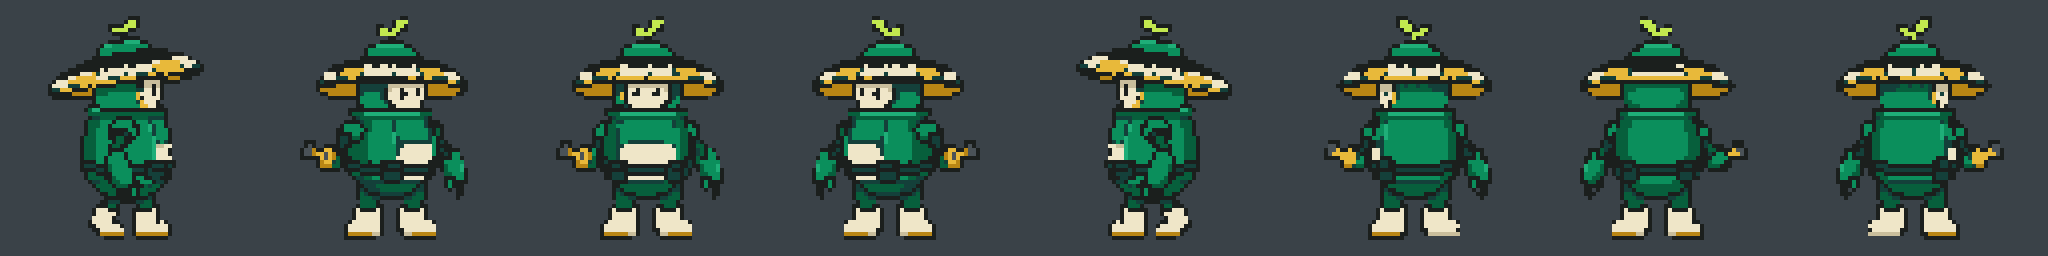
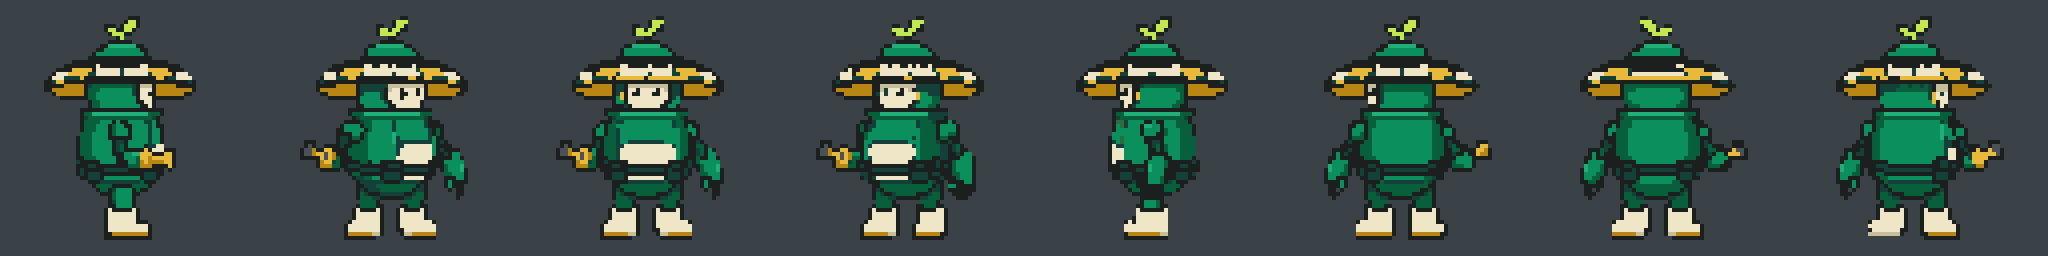
Nozzle on Seven's right arm in all facings; aim barrel is now a gold nozzle arm
East, West, SouthWest and NorthWest are drawn for themselves (mirroring swapped the arms).
While aiming, the game draws an emerald arm and gold spout, and shows a strip without the
resting nozzle so Seven never has two.

Changed region(s): [[0.375, 0.0625, 0.75, 0.9375], [0.0, 0.0938, 0.125, 0.9375]]

diff --git a/tools/gen_seven_sprites.py b/tools/gen_seven_sprites.py
@@ -35,6 +35,8 @@ OUT
     art/source/seven_pixel/<view>_<take>.png       the snapped 64 x 64 frame (and @6x preview)
     art/source/seven_pixel/sheet.png               every snapped take side by side
     art/sprites/gardener_bot_facings.png, art/sprites/gardener_bot.png       (build only)
+    art/sprites/gardener_bot_facings_aiming.png   the same strip with the resting nozzle painted out
+                                                  (the game uses it while its own gold aim arm shows)
     art/source/seven_pixel/strip@4x.png            the finished strip at 4x, for looking
 
 Needs: Pillow, numpy, scipy
@@ -104,20 +106,54 @@ VIEWS = {
         "THIS VIEW: a THREE-QUARTER FRONT view. Seven is turned 45 degrees so it faces toward the "
         "viewer AND toward the RIGHT of the picture: we see the face window turned to the right, the "
         "front of the body and the near side of the body. The nozzle arm is on the far side.",
-        [(1, False), (3, True)],
+        [(1, False)],
     ),
     "side": (
         "THIS VIEW: the SIDE view, exactly the 'SIDE' picture of the model sheet. Seven faces the RIGHT "
         "of the picture in profile, the face window at the right edge of the head, the boots pointing "
         "right.",
-        [(0, False), (4, True)],
+        [],  # no longer used for a frame: West has its own drawing, `side_far` (kept as history)
+    ),
+    "side_far": (
+        "THIS VIEW: the SIDE view facing the LEFT of the picture in profile: the face window at the LEFT "
+        "edge of the head, the boots pointing left. The NEAR arm (the one we can see, hanging at the "
+        "body's side) is the plain-hand arm with the small three-fingered hand; the gold nozzle arm is "
+        "on the far side, hidden behind the body, so NO gold nozzle shows. Keep the hat flat and wide "
+        "like the reference, and the pose and size the same as the reference.",
+        [(4, False)],
     ),
     "three_back": (
         "THIS VIEW: a THREE-QUARTER BACK view. Seven is turned so it faces away from the viewer AND "
         "toward the RIGHT of the picture: we see the back of the body and the back of the hat, and just "
         "a sliver of the face window at the right edge of the head. The gold nozzle arm is on the near "
         "side.",
-        [(7, False), (5, True)],
+        [(7, False)],
+    ),
+    # Seven's NOZZLE arm is its RIGHT arm (the picture's left in the front view). A mirrored view
+    # swaps the arms, so East, SouthWest and NorthWest are drawn for themselves, not flipped.
+    "side_near": (
+        "THIS VIEW: the SIDE view like the 'SIDE' picture of the model sheet: Seven faces the RIGHT of the "
+        "picture in profile, the face window at the right edge of the head, the boots pointing right. "
+        "BUT this time the NEAR arm (the one we can see, hanging at the body's side) is the NOZZLE arm: "
+        "the short gold watering-spout nozzle sticks out of the near hand, pointing forward (to the "
+        "right) and slightly down. The other arm is hidden behind the body.",
+        [(0, False)],
+    ),
+    "three_front_left": (
+        "THIS VIEW: a THREE-QUARTER FRONT view turned the other way. Seven is turned 45 degrees so it "
+        "faces toward the viewer AND toward the LEFT of the picture: the face window is turned to the "
+        "left. The gold nozzle arm is on the FAR side: on the left of the picture, partly hidden behind "
+        "the body, with the gold spout showing past the body's left edge. The plain-hand arm is on the "
+        "near side, on the right of the picture.",
+        [(3, False)],
+    ),
+    "three_back_left": (
+        "THIS VIEW: a THREE-QUARTER BACK view turned to the LEFT. Seven faces away from the viewer AND "
+        "toward the LEFT of the picture: we see the back of the body and the back of the hat, and just a "
+        "sliver of the face window at the LEFT edge of the head. The gold nozzle arm is on the FAR side: "
+        "on the right of the picture, partly hidden behind the body, the gold spout showing past the "
+        "body's right edge. The plain-hand arm is on the near side, on the left of the picture.",
+        [(5, False)],
     ),
     "back": (
         "THIS VIEW: the BACK, exactly the 'BACK' picture of the model sheet. Seven faces away from the "
@@ -138,6 +174,20 @@ def draw(view: str, take: int, key: str, front_raw: Path = None) -> Path:
         references.append(front_raw)
         note = (" The SECOND reference picture is the finished pixel sprite of the FRONT view: draw the "
                 "same character at the same size and in the same pixel style, just turned.")
+    if view == "side_far":
+        # West gets a third reference: the finished East view flipped to face left, so West has the
+        # same hat, size and pose. (Its near hand holds the nozzle, which is wrong for West: said below.)
+        # `OUT / "name"` joins a folder and a file name (pathlib overloads the / operator for this).
+        flipped = OUT / "ref_side_near_flipped.png"
+        # Open the East drawing, mirror it left-to-right, and save it as the extra reference file.
+        # The calls are chained: each one works on the picture the call before it returned.
+        Image.open(OUT / "side_near_raw_2.png").transpose(Image.FLIP_LEFT_RIGHT).save(flipped)
+        references.append(flipped)  # a list's .append adds one item at the end
+        # `+=` on a string glues more text onto the end of `note`; the brackets let one long
+        # string sit across several lines (neighbouring string pieces are joined automatically).
+        note += (" The LAST reference picture is the finished East view flipped to face left: copy its "
+                 "hat, size and pose exactly, but its near hand holds the gold nozzle, which is WRONG for "
+                 "this view: in YOUR drawing the near hand is the plain hand and no nozzle shows.")
     prompt = BASE + note + "\n\n" + VIEWS[view][0]
     raw_path = OUT / f"{view}_raw_{take}.png"
     raw_path.write_bytes(concepts.generate(prompt, key, references=tuple(references), aspect="1:1"))
@@ -257,10 +307,36 @@ def build_sheet() -> None:
     print("saved sheet.png")
 
 
+def without_nozzle(frame: Image.Image) -> Image.Image:
+    """Return a copy of one frame with the resting gold nozzle painted out of the right hand.
+    WHY: while Seven aims, the game draws its own gold nozzle ARM reaching along the aim
+    (scripts/player.gd `_draw_nozzle`); with the painted one still hanging at the side Seven would
+    show two nozzles. So the game swaps to a strip without it whenever the aim arm is showing.
+    HOW: the nozzle is a clump of gold pixels hanging off the body. Gold also appears in the hat
+    rim (high up), the boots' edge (low down) and small chest rivets (tiny separate dots), so we
+    only recolour a gold CLUMP of 4 or more pixels whose middle sits between the hat and the boots.
+    Gold becomes emerald and dark gold becomes dark emerald, so what is left is a plain green fist."""
+    pixels = np.array(frame.convert("RGBA"))
+    palette = {name: tuple(int(code[i:i + 2], 16) for i in (1, 3, 5)) for name, code in PALETTE}
+    gold, gold_dark = palette["gold"], palette["gold-dark"]
+    is_gold = (pixels[..., :3] == gold).all(axis=2) & (pixels[..., 3] > 0)
+    is_dark_gold = (pixels[..., :3] == gold_dark).all(axis=2) & (pixels[..., 3] > 0)
+    # `structure` of all ones makes diagonal neighbours count as touching when we group pixels.
+    clumps, count = ndimage.label(is_gold | is_dark_gold, structure=np.ones((3, 3)))
+    for number in range(1, count + 1):
+        ys, xs = np.where(clumps == number)
+        if len(ys) >= 4 and 28 <= ys.mean() <= 52:
+            for y, x in zip(ys, xs):
+                pixels[y, x, :3] = palette["emerald"] if is_gold[y, x] else palette["emerald-dark"]
+    return Image.fromarray(pixels, "RGBA")
+
+
 def build_strip(picks: dict) -> None:
     """Assemble the 8-frame strip from the chosen take of each view (mirroring where needed)."""
     frames = [None] * 8
     for view, (_, targets) in VIEWS.items():
+        if not targets:
+            continue  # a view that makes no frame (the old `side`) needs no pick
         frame = Image.open(OUT / f"{view}_{picks[view]}.png").convert("RGBA")
         for index, mirrored in targets:
             frames[index] = frame.transpose(Image.FLIP_LEFT_RIGHT) if mirrored else frame
@@ -268,6 +344,11 @@ def build_strip(picks: dict) -> None:
     for index, frame in enumerate(frames):
         strip.paste(frame, (index * SIZE, 0))
     strip.save(ROOT / "art/sprites/gardener_bot_facings.png")
+    # The same eight frames with the resting nozzle painted out: used while the aim arm is drawn.
+    aiming = Image.new("RGBA", strip.size, (0, 0, 0, 0))
+    for index, frame in enumerate(frames):
+        aiming.paste(without_nozzle(frame), (index * SIZE, 0))
+    aiming.save(ROOT / "art/sprites/gardener_bot_facings_aiming.png")
     frames[2].save(ROOT / "art/sprites/gardener_bot.png")
     big = strip.resize((SIZE * 8 * 4, SIZE * 4), Image.NEAREST)
     preview = Image.new("RGBA", big.size, (58, 66, 72, 255))

diff --git a/docs/DEVLOG.md b/docs/DEVLOG.md
@@ -384,6 +384,10 @@ From the kickoff. `config/game_config.tres` holds every speed, cooldown and size
 - The thunk and spit candidates came back very quiet (mean below -36 dB) and need a lot of gain; listen for hiss.
 - The listening page now plays every take evened out to its in-game loudness.
 
+## D-070: Seven's nozzle is on the RIGHT arm in every facing, and the aim barrel is now a gold nozzle arm (Made, 2026-11-20)
+
+Sasha's playtest of the new strip: frames 1, 4 and 6 (East, SouthWest, NorthWest) had the hands the wrong way round, and the grey gun-barrel drawn while aiming should be the gold nozzle arm. **Cause:** Seven's nozzle is its RIGHT arm (the picture's left in the front view), and a MIRRORED drawing swaps the arms; East was drawn with the plain hand near the camera, and SouthWest and NorthWest were flipped copies. **Fix:** those three facings (plus West, to keep the hat matching) are now drawn for themselves, not flipped: `side_near` (East), `side_far` (West, with the finished East flipped as a reference so hat, size and pose match), `three_front_left` (SouthWest) and `three_back_left` (NorthWest), all in `art/source/seven_pixel/`. Rule to remember: facing direction f (screen y down) puts the right arm toward (-f.y, f.x): near the camera when Seven faces East, far when it faces West. **Aim arm:** `player.gd` `_draw_nozzle` no longer draws a grey barrel; it draws an emerald arm from the right shoulder to the hand and a gold spout (a tube that flares to a bell, with a pale rim) along the aim. Tunables are in `config/game_config.gd`: `aim_arm_color`, `aim_arm_width`, `aim_spout_color`, `aim_spout_rim_color`, `aim_spout_width`, `aim_spout_bell_width`, `aim_nozzle_length`, `aim_shoulder_reach_cells`, `aim_shoulder_height_cells` (the old `aim_nozzle_color` is gone). **No double nozzle:** a second strip, `art/sprites/gardener_bot_facings_aiming.png`, is the same eight frames with the resting gold nozzle painted out (`without_nozzle` in `tools/gen_seven_sprites.py`); `Player._update_aim` shows it while the aim arm is drawn and the plain strip when Seven is down or locked on the upgrade cards (config slot `player_facings_aiming_texture`). Checked: 893 headless checks pass (two new); `tests/capture_nozzle.gd` renders Seven aiming in all eight directions (`docs/s24/nozzle_facings.png`). **Soft spot:** aiming up or away, the arm crosses the back as a thick diagonal band; it reads as an arm but is heavier than the front views.
+
 ## D-069: Seven is now the emerald Engineer, with a new 8-direction pixel strip (Made, 2026-11-20)
 
 Sasha picked **Engineer take 1** (solar-panel sun hat with the seedling on the crown, cream face window, emerald barrel body with a cream chest panel and a dark tool belt, a gold watering-spout nozzle arm, stumpy legs, cream boots). `tools/gen_seven_sprites.py` turned it into the game's eight facings. **How:** Seven only needs FIVE drawn angles (front, three-quarter front, side, three-quarter back, back) because West, SouthWest and NorthWest are mirror images of East, SouthEast and NorthEast; the image model draws each angle as chunky pixel art on magenta from the concept sheet (every angle after the front also gets the finished front drawing as a style reference, so proportions match). Then a SNAP step: key out the magenta, give every pixel its nearest colour in Seven's own 14-colour palette (emerald, shade, light emerald, cream, gold, leaf greens, a lime for the seedling, outline), and shrink to a figure 56 px tall by letting each target pixel take the commonest colour in its patch (the outline counts double, and dark specks inside the pale face window count four times so the two eyes survive). Every frame is then lined up the same way (boots on row 59, body centred) so Seven does not jump when the aim sweeps round. Picks: front 2, three-quarter front 2, side 2, three-quarter back 1, back 2 (sources and every take: `art/source/seven_pixel/`). **Changed:** `art/sprites/gardener_bot_facings.png` and `gardener_bot.png` (the title/fallback picture) are the new design; `player.gd` `FALLBACK_COLOR` is emerald; `art/source/klad/palette.ops.jsonl` gained `emerald` and `emerald-dark` (`teal` stays, the upgrade icons and props still use it); `ART_DIRECTION.md` has the new Seven row; the old `tools/seven_sprite.py` and `seven_facings.py` are marked OBSOLETE (rerunning them would bring the teal robot back). Checked: 891 headless checks pass; a real render (`docs/s24/seven_among_trees.png`) shows Seven among grown trees at mid-run night: the gold-and-cream hat and cream boots carry the silhouette and the deep emerald body stays darker than the glowing canopies, so it does not blend in. **Known soft spots:** the three-quarter views are only slightly turned, so South and SouthEast look alike; the hat's solar-panel glass reads as a dark band at 56 px; Seven is 5 px taller than before (the old figure was 51 px); at night the emerald body is dimmer than the old cream dome, so a rim light is the fix if it feels lost. **Still open from the emerald checklist:** the UI "teal" accent (decision A, leave it, unless Sasha says otherwise), the title art, the itch cover and screenshots, the intro video and the trailer all still show the old teal Seven and must be remade before the v2.0 update. No itch upload (Sasha: nothing more until v2.0).

diff --git a/AI_LOG.md b/AI_LOG.md
@@ -40,6 +40,7 @@ One line per asset or system: tool, date, what it did. This feeds the itch page'
 | 2026-11-20 | Gemini (Nano Banana 2.1) | `art/sprites/{scrapper,sawbot,spitter,linebreaker,ripsaw,arc_spitter}.png`, `art/source/robot_pixel/` | Drew top-down pixel versions of the six locked machine concepts and snapped them to 64 px with `tools/gen_sprites.py`. In the game. |
 | 2026-11-20 | Gemini (Nano Banana 2.1) | `art/concept/seven_redesign/*.png` (6 turnaround sheets) | Generated three emerald redesign directions for Seven with `tools/gen_seven.py`. Not in the game. |
 | 2026-11-20 | Gemini (Nano Banana 2.1) | `art/sprites/gardener_bot_facings.png`, `art/sprites/gardener_bot.png`, `art/source/seven_pixel/*` | Seven's emerald Engineer design as an 8-facing pixel strip: five angles drawn as pixel art by the model from the locked concept (`tools/gen_seven_sprites.py`), snapped to a fixed 14-colour palette, three facings mirrored. In the game. |
+| 2026-11-20 | Gemini (Nano Banana 2.1) | `art/sprites/gardener_bot_facings.png` (East, West, SouthWest, NorthWest redrawn), `art/sprites/gardener_bot_facings_aiming.png`, `art/source/seven_pixel/*` | Four facings of Seven redrawn so the gold nozzle is always on its right arm (`tools/gen_seven_sprites.py`); a second strip with the resting nozzle painted out by code, used while the aim arm shows. In the game. |
 - Floor tiles (s14): 9 slabs pixelized by Klad from Sasha's Gemini concept sheet 02_floor_sheet_final (tools/floor_tiles.ps1), snapped to the game palette plus two floor-only steel steps.
 - Home roofs (s14): six roofs pixelized by Klad from Sasha's Gemini concept 03_wall_and_homes_b (tools/home_roofs.ps1), in narrow and wide versions; the game draws the front walls and windows.
 - Tree sprites (s14): sapling, grown, cut and big, cut out of Sasha's Gemini concept 04_sunroot_f and shrunk to 64 px by tools/tree_sprites.py (palette snap, speckle filter, outline).
